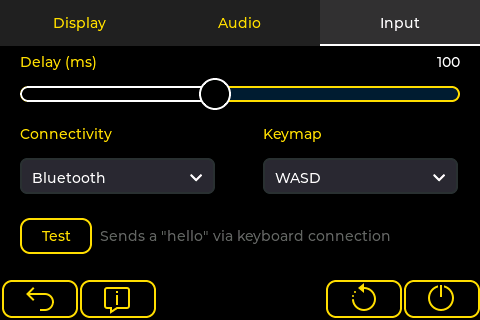
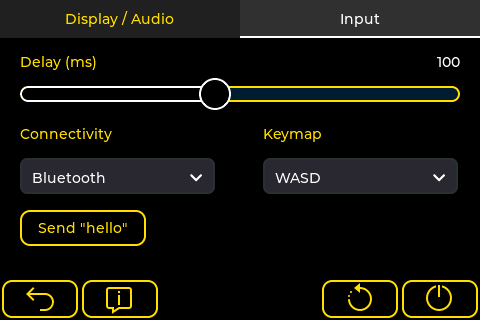
Updated screens

diff --git a/README.md b/README.md
@@ -48,15 +48,15 @@ If you enjoy the project and want to support our private work feel free to make 
 
 ![](screens/setup_sentry.png)
 
+![](screens/setup_ground.png)
+
 ![](screens/setup_strike.png)
 
 ![](screens/setup_eagle.png)
 
 ### Config
 
-![](screens/config_display.png)
-
-![](screens/config_audio.png)
+![](screens/config_display_audio.png)
 
 ![](screens/config_input.png)
 
